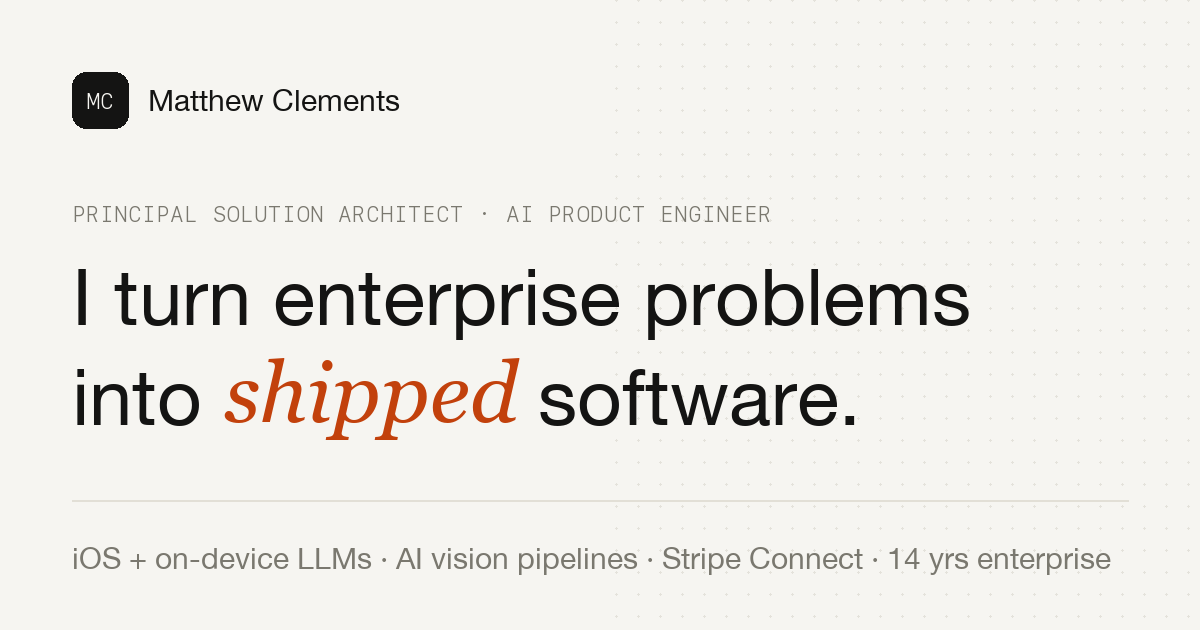
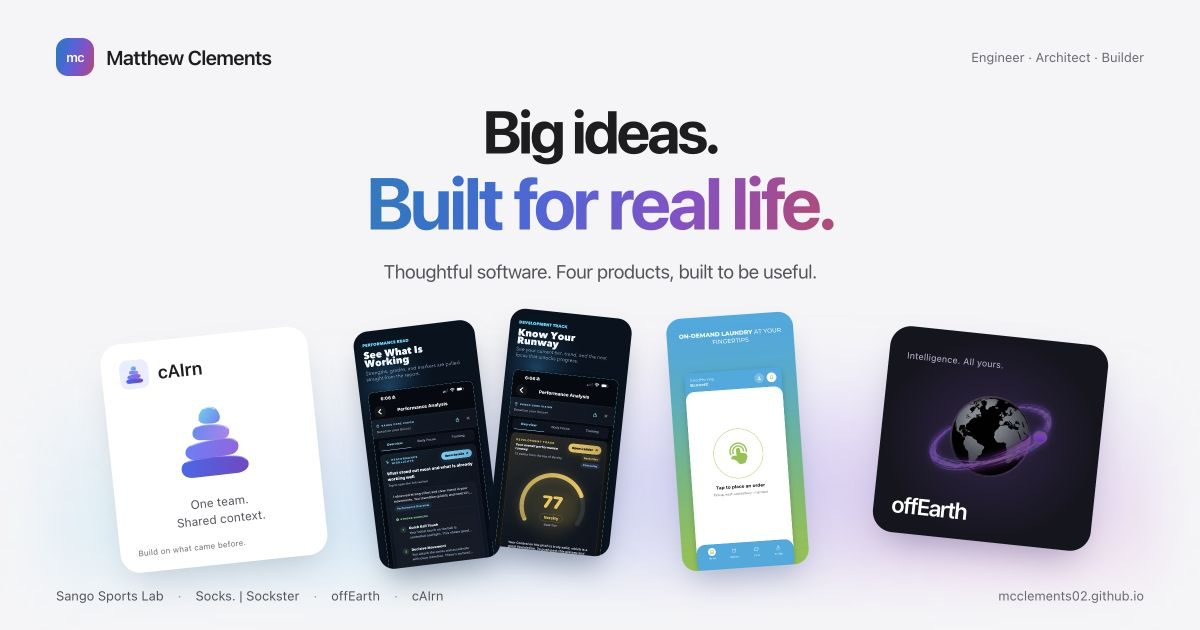
Refresh social previews with the new portfolio branding

diff --git a/assets/social-preview.html b/assets/social-preview.html
@@ -1,0 +1,59 @@
+<!doctype html>
+<html lang="en">
+<head>
+  <meta charset="utf-8">
+  <meta name="viewport" content="width=1200, initial-scale=1">
+  <meta name="robots" content="noindex">
+  <title>Portfolio social preview artwork</title>
+  <link rel="preconnect" href="https://fonts.googleapis.com">
+  <link rel="preconnect" href="https://fonts.gstatic.com" crossorigin>
+  <link href="https://fonts.googleapis.com/css2?family=Geist:wght@400;500;600;700&display=swap" rel="stylesheet">
+  <style>
+    :root { color-scheme: light; --gradient: linear-gradient(105deg,#007ac6 5%,#4d66df 38%,#8d4ecb 68%,#bd427f 95%); }
+    * { box-sizing: border-box; }
+    body { margin: 0; width: 1200px; height: 630px; overflow: hidden; color: #1d1d1f; background: #f5f5f7; font-family: -apple-system,BlinkMacSystemFont,'Geist',sans-serif; -webkit-font-smoothing: antialiased; }
+    img { display: block; }
+    .header { position: absolute; top: 38px; left: 56px; right: 56px; display: flex; align-items: center; justify-content: space-between; }
+    .identity { display: flex; align-items: center; gap: 12px; font-size: 20px; font-weight: 600; letter-spacing: -.025em; }
+    .monogram { display: grid; place-items: center; width: 38px; height: 38px; color: white; background: var(--gradient); border-radius: 12px; font-size: 13px; letter-spacing: -.06em; }
+    .role { font-size: 13px; color: #686972; }
+    h1 { position: absolute; top: 99px; left: 0; width: 100%; margin: 0; text-align: center; font-size: 60px; line-height: 1.07; font-weight: 700; letter-spacing: -.05em; }
+    h1 span { display: block; width: fit-content; margin-inline: auto; font-size: 73px; color: #6856e5; background: var(--gradient); background-clip: text; -webkit-background-clip: text; -webkit-text-fill-color: transparent; }
+    .intro { position: absolute; top: 260px; left: 0; width: 100%; margin: 0; text-align: center; color: #53545b; font-size: 19px; letter-spacing: -.02em; }
+    .stage { position: absolute; top: 313px; left: 65px; width: 1070px; height: 253px; isolation: isolate; }
+    .glow { position: absolute; inset: 10px -20px -15px; z-index: -1; background: radial-gradient(ellipse at 25% 80%,#79d7f44a,transparent 55%),radial-gradient(ellipse at 65% 60%,#a17cf64a,transparent 58%),radial-gradient(ellipse at 85% 85%,#ee93c932,transparent 45%); filter: blur(26px); }
+    .cairn { position: absolute; left: 45px; top: 22px; width: 208px; padding: 17px 18px 15px; border-radius: 20px; background: #fff; box-shadow: 0 18px 35px -12px #23345135; transform: rotate(-6deg); }
+    .cairn-title { display: flex; gap: 9px; align-items: center; font-size: 18px; font-weight: 600; }
+    .cairn-title img { width: 29px; height: 29px; padding: 3px; background: #e9edff; border-radius: 8px; }
+    .cairn>img { width: 92px; height: 92px; margin: 13px auto 8px; }
+    .cairn p { font-size: 12px; line-height: 1.4; text-align: center; margin: 0; color: #53545b; }
+    .cairn small { display: block; margin-top: 13px; color: #686972; font-size: 8px; }
+    .sango { position: absolute; left: 289px; top: 0; width: 280px; height: 253px; }
+    .sango img { position: absolute; width: 122px; height: 239px; object-fit: cover; object-position: top; border-radius: 15px; box-shadow: 0 18px 30px -9px #0e233f6a; }
+    .sango img:first-child { left: 12px; top: 12px; transform: rotate(-7deg); }
+    .sango img:last-child { left: 145px; top: 0; transform: rotate(6deg); }
+    .socks { position: absolute; left: 609px; top: 2px; width: 127px; height: 253px; object-fit: cover; object-position: top; border-radius: 15px; box-shadow: 0 18px 30px -9px #31518355; transform: rotate(-4deg); }
+    .offearth { position: absolute; right: 35px; top: 22px; width: 219px; padding: 17px 18px 15px; border-radius: 21px; background: radial-gradient(ellipse at 50% 50%,#332449,#15151e 70%); color: white; box-shadow: 0 18px 35px -12px #44276660; transform: rotate(6deg); }
+    .offearth small { color: #c7bdd9; font-size: 9px; }
+    .offearth img { width: 155px; height: 139px; object-fit: contain; margin: -2px auto -8px; }
+    .offearth strong { font-size: 23px; letter-spacing: -.055em; font-weight: 600; }
+    .footer { position: absolute; left: 56px; right: 56px; bottom: 27px; display: flex; justify-content: space-between; align-items: center; font-size: 13px; color: #53545b; }
+    .products { display: flex; align-items: center; gap: 14px; }
+    .products span+span::before { content: '·'; margin-right: 14px; color: #93949c; }
+    .domain { color: #686972; }
+  </style>
+</head>
+<body>
+  <header class="header"><div class="identity"><span class="monogram">mc</span>Matthew Clements</div><span class="role">Engineer · Architect · Builder</span></header>
+  <h1>Big ideas.<span>Built for real life.</span></h1>
+  <p class="intro">Thoughtful software. Four products, built to be useful.</p>
+  <div class="stage" aria-label="Four featured products">
+    <div class="glow" aria-hidden="true"></div>
+    <div class="cairn"><div class="cairn-title"><img src="cairn-logo.svg" alt="">cAIrn</div><img src="cairn-logo.svg" alt="cAIrn stacked-stone logo"><p>One team.<br>Shared context.</p><small>Build on what came before.</small></div>
+    <div class="sango"><img src="sango-report.webp" alt="Sango Sports Lab performance insights"><img src="sango-runway.webp" alt="Sango Sports Lab development report"></div>
+    <img class="socks" src="scks-customer.webp" alt="Socks. laundry customer app">
+    <div class="offearth"><small>Intelligence. All yours.</small><img src="offearth-logo.png" alt="offEarth globe and purple orbit"><strong>offEarth</strong></div>
+  </div>
+  <footer class="footer"><div class="products"><span>Sango Sports Lab</span><span>Socks. | Sockster</span><span>offEarth</span><span>cAIrn</span></div><span class="domain">mcclements02.github.io</span></footer>
+</body>
+</html>

diff --git a/index.html b/index.html
@@ -11,11 +11,20 @@
 <meta content="Matthew Clements" name="author"/>
 <link href="https://mcclements02.github.io/" rel="canonical"/>
 <meta content="website" property="og:type"/>
-<meta content="Matthew Clements — Engineer, Architect &amp; Builder" property="og:title"/>
+<meta content="Matthew Clements — Built for real life." property="og:title"/>
 <meta content="Explore Sango Sports Lab, Socks. | Sockster, offEarth, and cAIrn: products designed and engineered by Matthew Clements." property="og:description"/>
 <meta content="https://mcclements02.github.io/" property="og:url"/>
-<meta content="https://mcclements02.github.io/assets/og.png" property="og:image"/>
+<meta content="https://mcclements02.github.io/assets/og-portfolio-2026.jpg" property="og:image"/>
+<meta content="image/jpeg" property="og:image:type"/>
+<meta content="1200" property="og:image:width"/>
+<meta content="630" property="og:image:height"/>
+<meta content="Matthew Clements: Big ideas. Built for real life. Featuring Sango Sports Lab, Socks. | Sockster, offEarth, and cAIrn." property="og:image:alt"/>
+<meta content="Matthew Clements" property="og:site_name"/>
 <meta content="summary_large_image" name="twitter:card"/>
+<meta content="Matthew Clements — Built for real life." name="twitter:title"/>
+<meta content="Explore Sango Sports Lab, Socks. | Sockster, offEarth, and cAIrn: products designed and engineered by Matthew Clements." name="twitter:description"/>
+<meta content="https://mcclements02.github.io/assets/og-portfolio-2026.jpg" name="twitter:image"/>
+<meta content="Matthew Clements: Big ideas. Built for real life. Featuring Sango Sports Lab, Socks. | Sockster, offEarth, and cAIrn." name="twitter:image:alt"/>
 <link href="assets/favicon.svg" rel="icon" type="image/svg+xml"/>
 <link href="https://fonts.googleapis.com" rel="preconnect"/>
 <link crossorigin="" href="https://fonts.gstatic.com" rel="preconnect"/>

diff --git a/projects/socks/index.html b/projects/socks/index.html
@@ -11,8 +11,17 @@
 <meta content="Socks. | Sockster — Matthew Clements" property="og:title"/>
 <meta content="Two sides of a simpler laundry day. Socks. serves customers; Sockster gives pickup and delivery partners the tools to get the job done." property="og:description"/>
 <meta content="https://mcclements02.github.io/projects/socks/" property="og:url"/>
-<meta content="https://mcclements02.github.io/assets/og.png" property="og:image"/>
+<meta content="https://mcclements02.github.io/assets/og-portfolio-2026.jpg" property="og:image"/>
+<meta content="image/jpeg" property="og:image:type"/>
+<meta content="1200" property="og:image:width"/>
+<meta content="630" property="og:image:height"/>
+<meta content="Matthew Clements: Big ideas. Built for real life. Featuring Sango Sports Lab, Socks. | Sockster, offEarth, and cAIrn." property="og:image:alt"/>
+<meta content="Matthew Clements" property="og:site_name"/>
 <meta content="summary_large_image" name="twitter:card"/>
+<meta content="Socks. | Sockster — Matthew Clements" name="twitter:title"/>
+<meta content="Two sides of a simpler laundry day. Socks. serves customers; Sockster gives pickup and delivery partners the tools to get the job done." name="twitter:description"/>
+<meta content="https://mcclements02.github.io/assets/og-portfolio-2026.jpg" name="twitter:image"/>
+<meta content="Matthew Clements: Big ideas. Built for real life. Featuring Sango Sports Lab, Socks. | Sockster, offEarth, and cAIrn." name="twitter:image:alt"/>
 <link href="../../assets/favicon.svg" rel="icon" type="image/svg+xml"/>
 <link href="https://fonts.googleapis.com" rel="preconnect"/>
 <link crossorigin="" href="https://fonts.gstatic.com" rel="preconnect"/>

diff --git a/projects/offearth/index.html b/projects/offearth/index.html
@@ -11,8 +11,17 @@
 <meta content="offEarth — Matthew Clements" property="og:title"/>
 <meta content="Personal AI on your own device. A native experience for private conversations and useful intelligence, even offline." property="og:description"/>
 <meta content="https://mcclements02.github.io/projects/offearth/" property="og:url"/>
-<meta content="https://mcclements02.github.io/assets/og.png" property="og:image"/>
+<meta content="https://mcclements02.github.io/assets/og-portfolio-2026.jpg" property="og:image"/>
+<meta content="image/jpeg" property="og:image:type"/>
+<meta content="1200" property="og:image:width"/>
+<meta content="630" property="og:image:height"/>
+<meta content="Matthew Clements: Big ideas. Built for real life. Featuring Sango Sports Lab, Socks. | Sockster, offEarth, and cAIrn." property="og:image:alt"/>
+<meta content="Matthew Clements" property="og:site_name"/>
 <meta content="summary_large_image" name="twitter:card"/>
+<meta content="offEarth — Matthew Clements" name="twitter:title"/>
+<meta content="Personal AI on your own device. A native experience for private conversations and useful intelligence, even offline." name="twitter:description"/>
+<meta content="https://mcclements02.github.io/assets/og-portfolio-2026.jpg" name="twitter:image"/>
+<meta content="Matthew Clements: Big ideas. Built for real life. Featuring Sango Sports Lab, Socks. | Sockster, offEarth, and cAIrn." name="twitter:image:alt"/>
 <link href="../../assets/favicon.svg" rel="icon" type="image/svg+xml"/>
 <link href="https://fonts.googleapis.com" rel="preconnect"/>
 <link crossorigin="" href="https://fonts.gstatic.com" rel="preconnect"/>

diff --git a/projects/sango/index.html b/projects/sango/index.html
@@ -11,8 +11,17 @@
 <meta content="Sango Sports Lab — Matthew Clements" property="og:title"/>
 <meta content="AI-assisted sports coaching that turns phone video into clear performance insights and a path to improvement." property="og:description"/>
 <meta content="https://mcclements02.github.io/projects/sango/" property="og:url"/>
-<meta content="https://mcclements02.github.io/assets/og.png" property="og:image"/>
+<meta content="https://mcclements02.github.io/assets/og-portfolio-2026.jpg" property="og:image"/>
+<meta content="image/jpeg" property="og:image:type"/>
+<meta content="1200" property="og:image:width"/>
+<meta content="630" property="og:image:height"/>
+<meta content="Matthew Clements: Big ideas. Built for real life. Featuring Sango Sports Lab, Socks. | Sockster, offEarth, and cAIrn." property="og:image:alt"/>
+<meta content="Matthew Clements" property="og:site_name"/>
 <meta content="summary_large_image" name="twitter:card"/>
+<meta content="Sango Sports Lab — Matthew Clements" name="twitter:title"/>
+<meta content="AI-assisted sports coaching that turns phone video into clear performance insights and a path to improvement." name="twitter:description"/>
+<meta content="https://mcclements02.github.io/assets/og-portfolio-2026.jpg" name="twitter:image"/>
+<meta content="Matthew Clements: Big ideas. Built for real life. Featuring Sango Sports Lab, Socks. | Sockster, offEarth, and cAIrn." name="twitter:image:alt"/>
 <link href="../../assets/favicon.svg" rel="icon" type="image/svg+xml"/>
 <link href="https://fonts.googleapis.com" rel="preconnect"/>
 <link crossorigin="" href="https://fonts.gstatic.com" rel="preconnect"/>

diff --git a/projects/cairn/index.html b/projects/cairn/index.html
@@ -11,8 +11,17 @@
 <meta content="cAIrn — Matthew Clements" property="og:title"/>
 <meta content="A shared point of reference for people and AI agents building together. Each handoff adds to the work that came before." property="og:description"/>
 <meta content="https://mcclements02.github.io/projects/cairn/" property="og:url"/>
-<meta content="https://mcclements02.github.io/assets/og.png" property="og:image"/>
+<meta content="https://mcclements02.github.io/assets/og-portfolio-2026.jpg" property="og:image"/>
+<meta content="image/jpeg" property="og:image:type"/>
+<meta content="1200" property="og:image:width"/>
+<meta content="630" property="og:image:height"/>
+<meta content="Matthew Clements: Big ideas. Built for real life. Featuring Sango Sports Lab, Socks. | Sockster, offEarth, and cAIrn." property="og:image:alt"/>
+<meta content="Matthew Clements" property="og:site_name"/>
 <meta content="summary_large_image" name="twitter:card"/>
+<meta content="cAIrn — Matthew Clements" name="twitter:title"/>
+<meta content="A shared point of reference for people and AI agents building together. Each handoff adds to the work that came before." name="twitter:description"/>
+<meta content="https://mcclements02.github.io/assets/og-portfolio-2026.jpg" name="twitter:image"/>
+<meta content="Matthew Clements: Big ideas. Built for real life. Featuring Sango Sports Lab, Socks. | Sockster, offEarth, and cAIrn." name="twitter:image:alt"/>
 <link href="../../assets/favicon.svg" rel="icon" type="image/svg+xml"/>
 <link href="https://fonts.googleapis.com" rel="preconnect"/>
 <link crossorigin="" href="https://fonts.gstatic.com" rel="preconnect"/>

diff --git a/projects/index.html b/projects/index.html
@@ -11,8 +11,17 @@
 <meta content="Projects — Matthew Clements" property="og:title"/>
 <meta content="Explore Sango Sports Lab, Socks. | Sockster, offEarth, and cAIrn. Product experiences and their underlying technology." property="og:description"/>
 <meta content="https://mcclements02.github.io/projects/" property="og:url"/>
-<meta content="https://mcclements02.github.io/assets/og.png" property="og:image"/>
+<meta content="https://mcclements02.github.io/assets/og-portfolio-2026.jpg" property="og:image"/>
+<meta content="image/jpeg" property="og:image:type"/>
+<meta content="1200" property="og:image:width"/>
+<meta content="630" property="og:image:height"/>
+<meta content="Matthew Clements: Big ideas. Built for real life. Featuring Sango Sports Lab, Socks. | Sockster, offEarth, and cAIrn." property="og:image:alt"/>
+<meta content="Matthew Clements" property="og:site_name"/>
 <meta content="summary_large_image" name="twitter:card"/>
+<meta content="Projects — Matthew Clements" name="twitter:title"/>
+<meta content="Explore Sango Sports Lab, Socks. | Sockster, offEarth, and cAIrn. Product experiences and their underlying technology." name="twitter:description"/>
+<meta content="https://mcclements02.github.io/assets/og-portfolio-2026.jpg" name="twitter:image"/>
+<meta content="Matthew Clements: Big ideas. Built for real life. Featuring Sango Sports Lab, Socks. | Sockster, offEarth, and cAIrn." name="twitter:image:alt"/>
 <link href="../assets/favicon.svg" rel="icon" type="image/svg+xml"/>
 <link href="https://fonts.googleapis.com" rel="preconnect"/>
 <link crossorigin="" href="https://fonts.gstatic.com" rel="preconnect"/>

diff --git a/README.md b/README.md
@@ -14,6 +14,8 @@ A static portfolio with no framework, build step, or trackers. The design uses s
 - `projects/scks/index.html`: compatibility redirect to the renamed Socks. | Sockster page.
 - `assets/site.css`, `assets/site.js`, and `assets/cases.css`: shared appearance, interaction, and product-overview layout.
 - `assets/cairn-logo.svg`: original scalable cAIrn mark built from four stacked stones.
+- `assets/social-preview.html`: editable source for the 1200 × 630 social-preview artwork.
+- `assets/og-portfolio-2026.jpg`: the published Open Graph and Twitter preview image. `assets/og.png` is its compatibility copy for older image links.
 
 Sango and Socks. | Sockster visuals use the existing product screenshots. offEarth uses its existing app brand mark. cAIrn uses an original blue-and-violet vector identity. Product screenshots link to their full-size originals.
 
